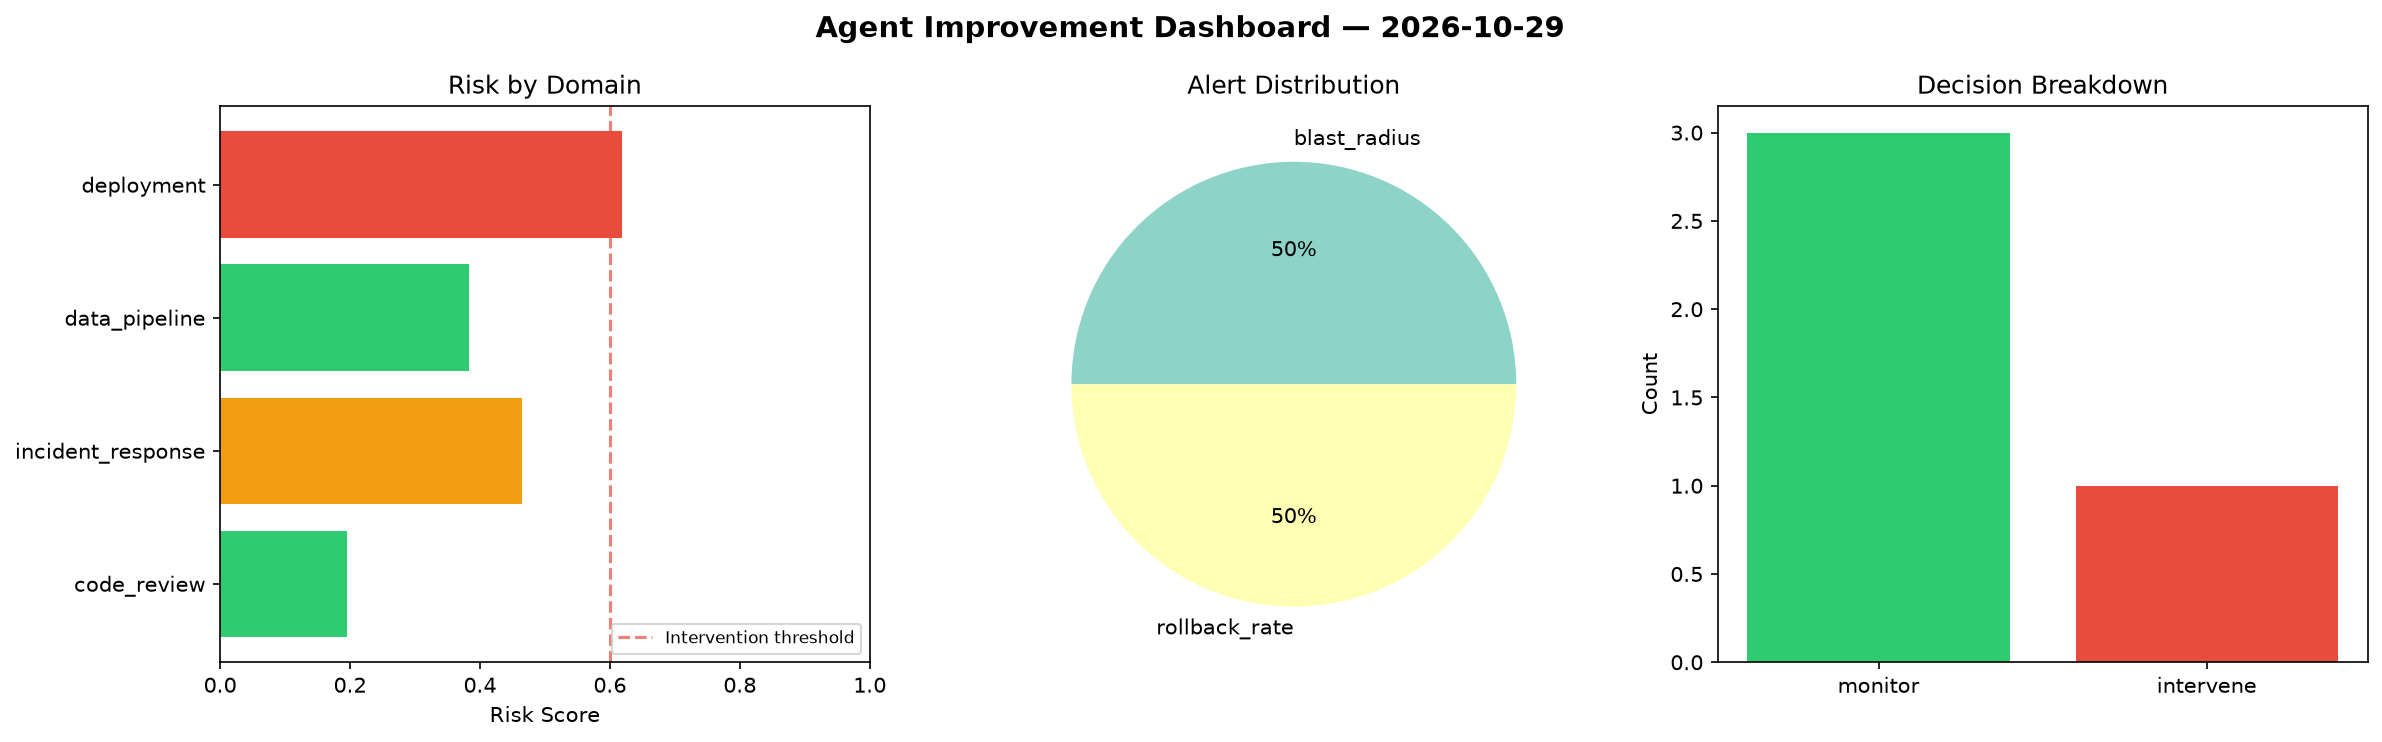
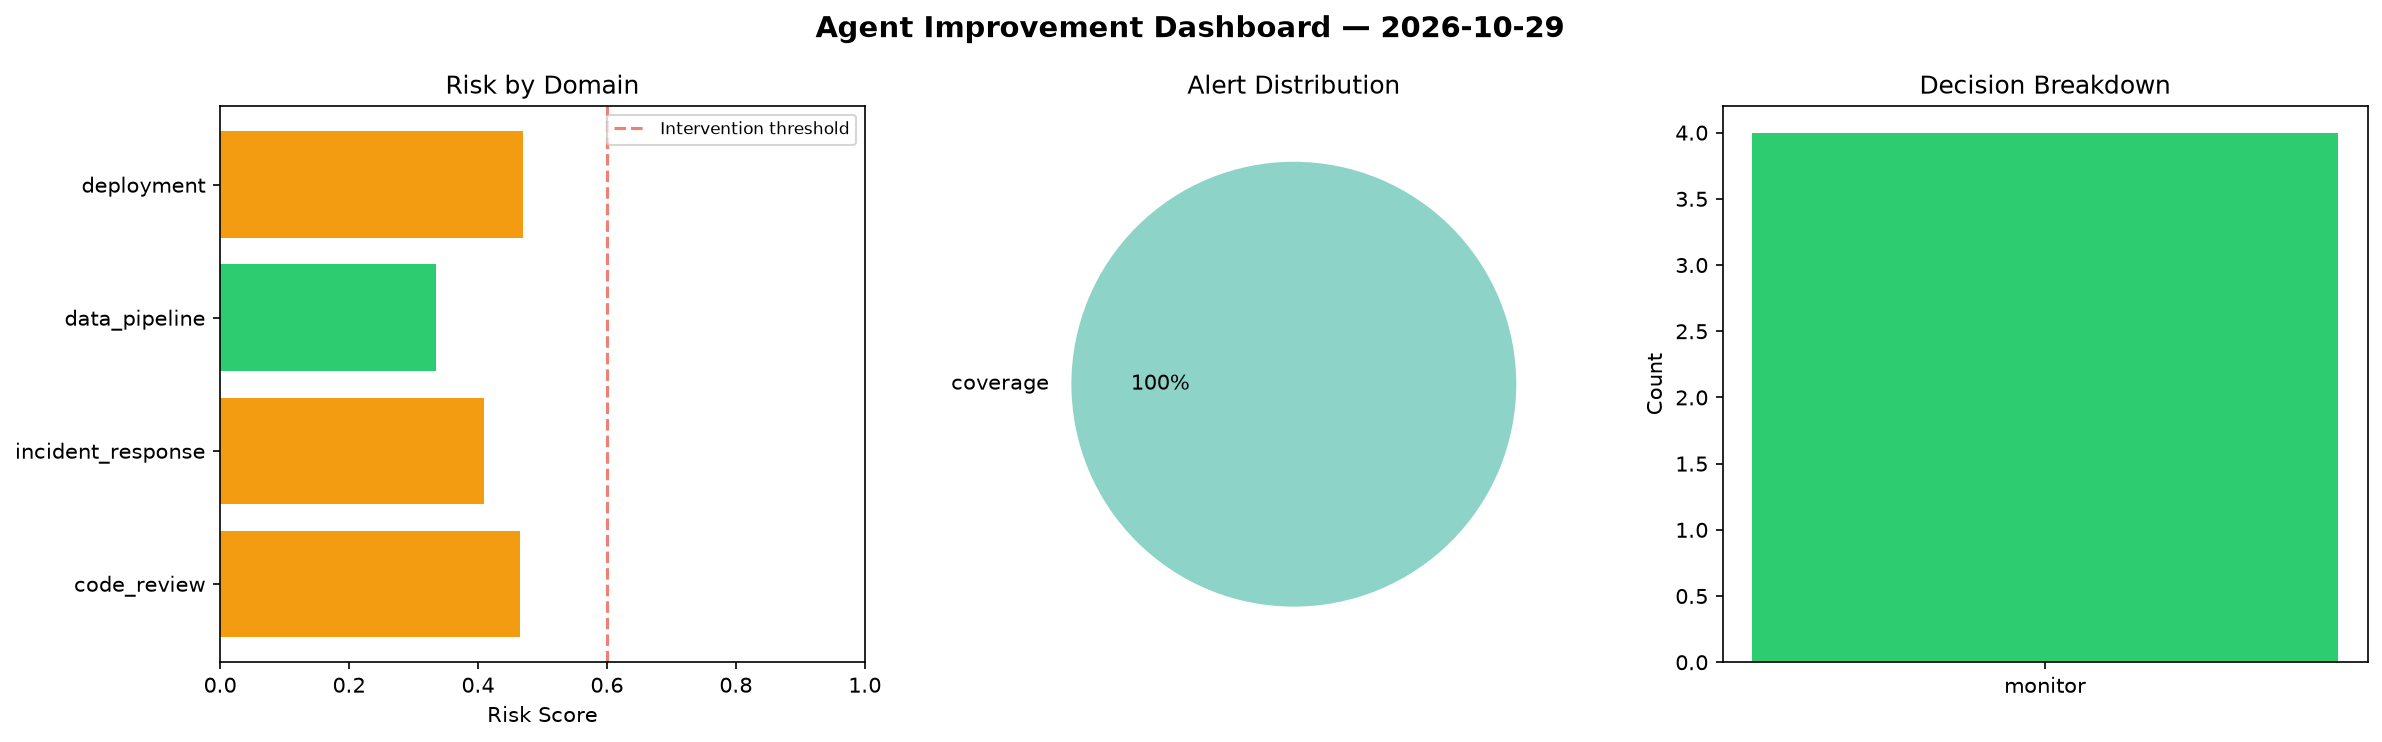
agent-improvement: daily cycle 2026-10-29T19:38

diff --git a/logs/2026-10-29.md b/logs/2026-10-29.md
@@ -1,6 +1,6 @@
 # Agent Improvement Report — 2026-10-29
 
-**Cycle ID:** `66d8407f` | **Avg Risk:** 0.4154 | **Interventions:** 1/4
+**Cycle ID:** `c4443846` | **Avg Risk:** 0.4195 | **Interventions:** 0/4
 
 ![Dashboard](2026-10-29_dashboard.png)
 
@@ -10,18 +10,18 @@
 
 | Domain | Risk Score | Decision | Alerts |
 |--------|-----------|----------|--------|
-| code_review | 0.1948 | monitor | none |
-| incident_response | 0.4654 | monitor | blast_radius |
-| data_pipeline | 0.3825 | monitor | none |
-| deployment | 0.619 | intervene | rollback_rate |
+| code_review | 0.4653 | monitor | coverage |
+| incident_response | 0.4087 | monitor | none |
+| data_pipeline | 0.3347 | monitor | none |
+| deployment | 0.4694 | monitor | none |
 
 ## Delta vs Yesterday
 
 | Domain | Today | Yesterday | Change |
 |--------|-------|-----------|--------|
-| code_review | 0.1948 | 0.2423 | 📉 -19.6% |
-| incident_response | 0.4654 | 0.565 | 📉 -17.6% |
-| data_pipeline | 0.3825 | 0.4826 | 📉 -20.7% |
-| deployment | 0.619 | 0.4519 | 📈 37.0% |
+| code_review | 0.4653 | 0.2423 | 📈 92.0% |
+| incident_response | 0.4087 | 0.565 | 📉 -27.7% |
+| data_pipeline | 0.3347 | 0.4826 | 📉 -30.6% |
+| deployment | 0.4694 | 0.4519 | 📈 3.9% |
 
 **Refinement:** `{'adjustment': 'tighten_thresholds', 'trend': 'degrading', 'window': 4}`
